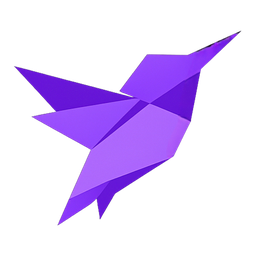
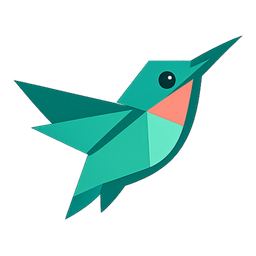
feat(brand): one teal hummingbird everywhere, generated from one master
The extension icon, the docs favicon, the navbar mark and the social card
were four unrelated files: a purple bird at 256px, Docusaurus' default
scaffolding logo, its default favicon, and its default social card. The
only thing keeping them in step was that nobody touched them.

`logo-source.png` is now the new teal artwork and the single master.
`tools/gen-logo-assets.py` derives every other raster from it in one pass
— marketplace icon, navbar logo at its natural aspect ratio, a multi-size
favicon, and a 1200x630 social card. Downscaling runs in premultiplied
alpha (Pillow's "RGBa"); the master's transparent pixels carry RGB
(0,0,0), so a straight RGBA resize bleeds black into every antialiased
edge and shows up as a dirty halo at favicon sizes.

That the set is generated is the point. The marketplace listing once
shipped a 68-byte 1x1 placeholder for two months because nothing tied the
icon to anything that would notice, and CI grew a size check in response.
A generator is the other half: change the bird once, regenerate, and the
four files cannot disagree.

Also here:

- The gallery banner drops `#1e0b3b`, which was matched to the purple.
- The Infima ramp is built from the two teals sampled off the artwork
  (`#00746b` light, `#24c0a4` dark) instead of Docusaurus' green.
- The three default Docusaurus brand files are deleted, not orphaned.
- The logo leads the root README, the extension README (absolute raw URL
[…]

Changed region(s): [[0.0625, 0.125, 0.9375, 0.875]]

diff --git a/docs/src/css/custom.css b/docs/src/css/custom.css
@@ -5,26 +5,29 @@
  */
 
 /* You can override the default Infima variables here. */
+
+/* Brand ramp is built around the two teals sampled from the logo artwork
+   (docs/static/img/logo.png): #00746b for light mode, #24c0a4 for dark. */
 :root {
-  --ifm-color-primary: #2e8555;
-  --ifm-color-primary-dark: #29784c;
-  --ifm-color-primary-darker: #277148;
-  --ifm-color-primary-darkest: #205d3b;
-  --ifm-color-primary-light: #33925d;
-  --ifm-color-primary-lighter: #359962;
-  --ifm-color-primary-lightest: #3cad6e;
+  --ifm-color-primary: #00746b;
+  --ifm-color-primary-dark: #006960;
+  --ifm-color-primary-darker: #00635b;
+  --ifm-color-primary-darkest: #00514b;
+  --ifm-color-primary-light: #007f76;
+  --ifm-color-primary-lighter: #00857b;
+  --ifm-color-primary-lightest: #00978b;
   --ifm-code-font-size: 95%;
   --docusaurus-highlighted-code-line-bg: rgba(0, 0, 0, 0.1);
 }
 
 /* For readability concerns, you should choose a lighter palette in dark mode. */
 [data-theme='dark'] {
-  --ifm-color-primary: #25c2a0;
-  --ifm-color-primary-dark: #21af90;
-  --ifm-color-primary-darker: #1fa588;
-  --ifm-color-primary-darkest: #1a8870;
-  --ifm-color-primary-light: #29d5b0;
-  --ifm-color-primary-lighter: #32d8b4;
-  --ifm-color-primary-lightest: #4fddbf;
+  --ifm-color-primary: #24c0a4;
+  --ifm-color-primary-dark: #20ad94;
+  --ifm-color-primary-darker: #1ea38b;
+  --ifm-color-primary-darkest: #198672;
+  --ifm-color-primary-light: #34d3b6;
+  --ifm-color-primary-lighter: #45d7bd;
+  --ifm-color-primary-lightest: #6ce0cb;
   --docusaurus-highlighted-code-line-bg: rgba(0, 0, 0, 0.3);
 }

diff --git a/docs/docusaurus.config.ts b/docs/docusaurus.config.ts
@@ -40,12 +40,12 @@ const config: Config = {
   ],
 
   themeConfig: {
-    image: 'img/docusaurus-social-card.jpg',
+    image: 'img/jwc-social-card.png',
     navbar: {
       title: 'JWC',
       logo: {
-        alt: 'JWC Logo',
-        src: 'img/logo.svg',
+        alt: 'JWC hummingbird logo',
+        src: 'img/logo.png',
       },
       items: [
         {

diff --git a/tools/gen-logo-assets.py b/tools/gen-logo-assets.py
@@ -1,0 +1,182 @@
+#!/usr/bin/env python3
+"""Regenerate every derived JWC logo asset from the master artwork.
+
+The master is `vscode-extension/logo-source.png` — the only file an artist
+should ever edit. Everything else in the list below is derived from it, and
+the only reason those files agree with each other is that this script made
+them all in one pass. Hand-editing one of them makes the set drift, which is
+how the marketplace listing once shipped a blank square for two months.
+
+    pip install Pillow
+    python3 tools/gen-logo-assets.py
+
+Outputs:
+    vscode-extension/icon.png          256x256   marketplace + file icon
+    docs/static/img/logo.png           h=128     docusaurus navbar
+    docs/static/img/favicon.ico        16..256   browser tab
+    docs/static/img/jwc-social-card.png 1200x630 og:image / twitter card
+
+Downscaling happens in premultiplied-alpha space (Pillow's "RGBa" mode).
+The master's transparent pixels carry RGB (0,0,0), so a straight RGBA
+resize bleeds black into every antialiased edge — visible as a dirty halo
+at favicon sizes.
+"""
+
+from __future__ import annotations
+
+import sys
+from pathlib import Path
+
+from PIL import Image, ImageDraw, ImageFont
+
+ROOT = Path(__file__).resolve().parent.parent
+MASTER = ROOT / "vscode-extension" / "logo-source.png"
+
+# Sampled from the master artwork.
+TEAL_DEEP = (0, 116, 107)
+TEAL_BRIGHT = (36, 192, 164)
+CORAL = (253, 144, 124)
+
+FONT_DIRS = [
+    "/usr/share/fonts/truetype/liberation",
+    "/usr/share/fonts/truetype/dejavu",
+    "/Library/Fonts",
+    "C:/Windows/Fonts",
+]
+FONT_BOLD = ["LiberationSans-Bold.ttf", "DejaVuSans-Bold.ttf", "Arial Bold.ttf"]
+FONT_REG = ["LiberationSans-Regular.ttf", "DejaVuSans.ttf", "Arial.ttf"]
+
+
+def load_font(names: list[str], size: int) -> ImageFont.FreeTypeFont:
+    for d in FONT_DIRS:
+        for n in names:
+            p = Path(d) / n
+            if p.exists():
+                return ImageFont.truetype(str(p), size)
+    return ImageFont.load_default(size)
+
+
+def trimmed(img: Image.Image) -> Image.Image:
+    """Crop to the artwork's alpha bounding box."""
+    box = img.split()[3].getbbox()
+    return img.crop(box) if box else img
+
+
+def scaled(img: Image.Image, w: int, h: int) -> Image.Image:
+    """Resize through premultiplied alpha so edges don't pick up black."""
+    return img.convert("RGBa").resize((w, h), Image.LANCZOS).convert("RGBA")
+
+
+def fit(art: Image.Image, box_w: int, box_h: int) -> Image.Image:
+    """Scale `art` to the largest size fitting box_w x box_h, aspect intact."""
+    ratio = min(box_w / art.width, box_h / art.height)
+    return scaled(art, max(1, round(art.width * ratio)), max(1, round(art.height * ratio)))
+
+
+def centered(art: Image.Image, w: int, h: int, fill_ratio: float) -> Image.Image:
+    """Place `art` on a transparent w x h canvas at `fill_ratio` of the box."""
+    art = fit(art, round(w * fill_ratio), round(h * fill_ratio))
+    canvas = Image.new("RGBA", (w, h), (0, 0, 0, 0))
+    canvas.alpha_composite(art, ((w - art.width) // 2, (h - art.height) // 2))
+    return canvas
+
+
+def wrap(text: str, font: ImageFont.FreeTypeFont, max_w: int) -> list[str]:
+    lines: list[str] = []
+    words = text.split()
+    line = ""
+    for word in words:
+        probe = f"{line} {word}".strip()
+        if font.getlength(probe) <= max_w or not line:
+            line = probe
+        else:
+            lines.append(line)
+            line = word
+    if line:
+        lines.append(line)
+    return lines
+
+
+def social_card(art: Image.Image, out: Path) -> None:
+    W, H = 1200, 630
+    top, bottom = (6, 46, 42), (3, 26, 24)
+
+    card = Image.new("RGBA", (W, H))
+    draw = ImageDraw.Draw(card)
+    for y in range(H):
+        t = y / (H - 1)
+        draw.line(
+            [(0, y), (W, y)],
+            fill=tuple(round(top[i] + (bottom[i] - top[i]) * t) for i in range(3)) + (255,),
+        )
+
+    # Hairline of brand teal along the top edge.
+    draw.rectangle([0, 0, W, 5], fill=TEAL_BRIGHT + (255,))
+
+    logo = fit(art, 360, 330)
+    card.alpha_composite(logo, (96, (H - logo.height) // 2 - 10))
+
+    x = 540
+    title_font = load_font(FONT_BOLD, 132)
+    tag_font = load_font(FONT_REG, 34)
+    url_font = load_font(FONT_BOLD, 26)
+
+    draw.text((x, 168), "JWC", font=title_font, fill=(255, 255, 255, 255))
+
+    y = 330
+    for line in wrap(
+        "A backend-first language for SQL-native business-logic APIs",
+        tag_font,
+        W - x - 90,
+    ):
+        draw.text((x, y), line, font=tag_font, fill=(198, 226, 221, 255))
+        y += 48
+
+    draw.text((x, y + 26), "jwc.1kb.uz", font=url_font, fill=TEAL_BRIGHT + (255,))
+
+    card.convert("RGB").save(out, "PNG", optimize=True)
+    print(f"  {out.relative_to(ROOT)}  {W}x{H}")
+
+
+def main() -> int:
+    if not MASTER.exists():
+        print(f"master artwork missing: {MASTER}", file=sys.stderr)
+        return 1
+
+    master = Image.open(MASTER).convert("RGBA")
+    art = trimmed(master)
+    print(f"master {MASTER.relative_to(ROOT)} {master.size} -> trimmed {art.size}")
+
+    # Marketplace icon. 90% fill leaves the breathing room VS Code's own
+    # rounded-tile treatment expects; CI rejects anything under 128x128.
+    icon = ROOT / "vscode-extension" / "icon.png"
+    centered(art, 256, 256, 0.90).save(icon, "PNG", optimize=True)
+    print(f"  {icon.relative_to(ROOT)}  256x256")
+
+    # Navbar logo: Docusaurus scales by height, so ship the natural aspect
+    # ratio rather than a square with dead space either side.
+    navbar = fit(art, 10_000, 120)
+    canvas = Image.new("RGBA", (navbar.width + 8, 128), (0, 0, 0, 0))
+    canvas.alpha_composite(navbar, (4, 4))
+    logo_png = ROOT / "docs" / "static" / "img" / "logo.png"
+    canvas.save(logo_png, "PNG", optimize=True)
+    print(f"  {logo_png.relative_to(ROOT)}  {canvas.width}x{canvas.height}")
+
+    # Favicon. Pillow renders every entry from the 256px master rather than
+    # from each other, so the 16px one stays legible. Stopping at 128 keeps
+    # the file near 20 KB — a 256px entry alone triples that, and nothing
+    # requests a favicon that large.
+    fav = ROOT / "docs" / "static" / "img" / "favicon.ico"
+    centered(art, 256, 256, 0.96).save(
+        fav,
+        "ICO",
+        sizes=[(16, 16), (24, 24), (32, 32), (48, 48), (64, 64), (128, 128)],
+    )
+    print(f"  {fav.relative_to(ROOT)}  16..128")
+
+    social_card(art, ROOT / "docs" / "static" / "img" / "jwc-social-card.png")
+    return 0
+
+
+if __name__ == "__main__":
+    raise SystemExit(main())

diff --git a/vscode-extension/README.md b/vscode-extension/README.md
@@ -1,3 +1,7 @@
+<p align="center">
+  <img src="https://raw.githubusercontent.com/Nodirbek-Abdulaxadov/jwc-lang/main/vscode-extension/icon.png" alt="JWC" width="128">
+</p>
+
 # JWC Language for VS Code
 
 Syntax highlighting, snippets, and LSP-powered diagnostics for [JWC (Just Web Code)](https://jwc.1kb.uz).

diff --git a/docs/docs/intro.md b/docs/docs/intro.md
@@ -3,6 +3,10 @@ slug: /
 sidebar_position: 1
 ---
 
+<p align="center">
+  <img src="/img/logo.png" alt="JWC" width="150" />
+</p>
+
 # JWC
 
 **Write web backends without hand-coding CRUD, without fighting an ORM, native-fast.**

diff --git a/README.md b/README.md
@@ -1,3 +1,7 @@
+<p align="center">
+  <img src="docs/static/img/logo.png" alt="JWC" width="150">
+</p>
+
 # JWC
 
 **Write web backends without hand-coding CRUD, without fighting an ORM, native-fast.**
